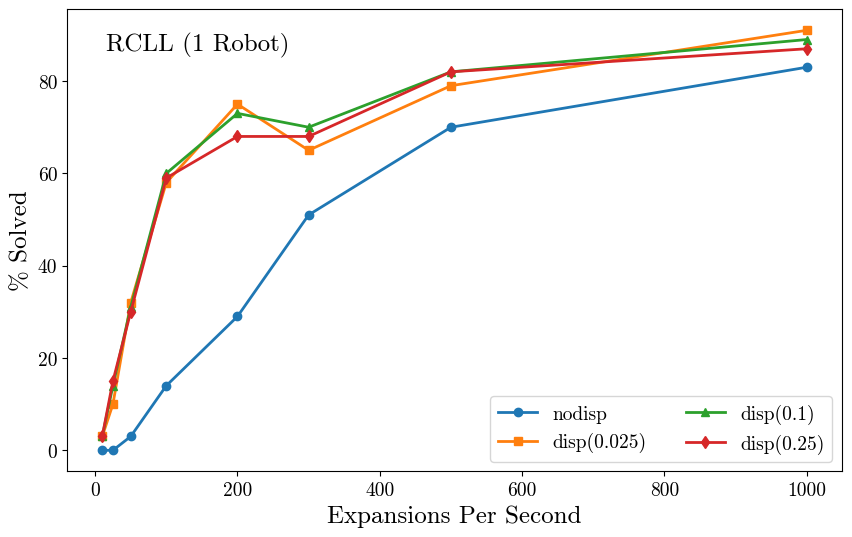
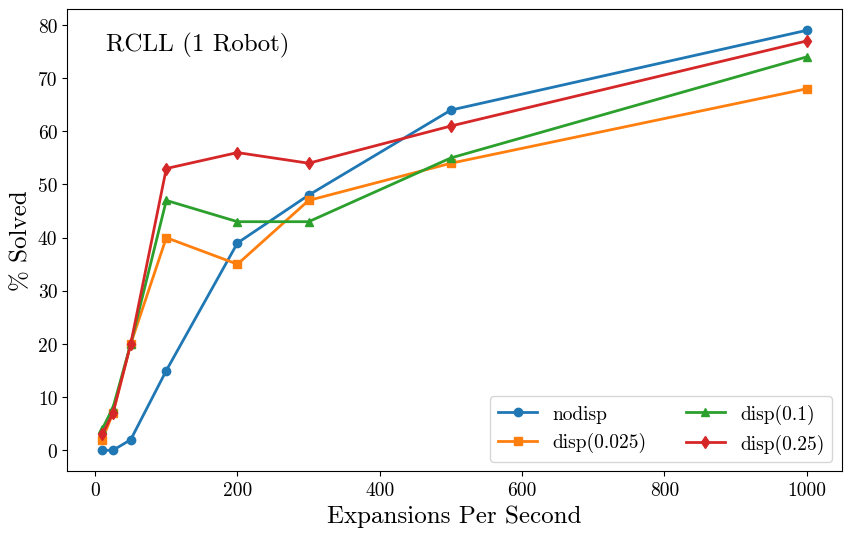
plots wip

diff --git a/_nodes_analysis/plots/SFT 0.125 DFS 10/_plots_general.py b/_nodes_analysis/plots/SFT 0.125 DFS 10/_plots_general.py
@@ -5,12 +5,13 @@ matplotlib.use('Agg')
 import matplotlib.pyplot as plt
 
 # Raw data
+# +
 data1 = {
     'EPS': [10, 25, 50, 100, 200, 300, 500, 1000],
-    'nodisp': [0, 0, 3, 14, 29, 51, 70, 83],
-    'disp(0.025)': [3, 10, 32, 58, 75, 65, 79, 91],
-    'disp(0.1)': [3, 14, 31, 60, 73, 70, 82, 89],
-    'disp(0.25)': [3, 15, 30, 59, 68, 68, 82, 87]
+    'nodisp': [0, 0, 2, 15, 39, 48, 64, 79],  # Updated values
+    'disp(0.025)': [3, 19, 16, 29, 35, 54, 54, 76],  # Updated values
+    'disp(0.1)': [2, 20, 21, 42, 50, 52, 61, 83],  # Updated values
+    'disp(0.25)': [3, 25, 28, 46, 56, 59, 66, 82]  # Updated values
 }
 
 # +
@@ -21,22 +22,23 @@ data2 = {
     'disp(0.1)': [2, 11, 20, 28, 27, 20, 43, 48],  # Updated values
     'disp(0.25)': [2, 8, 16, 28, 22, 32, 33, 44]  # Updated values
 }
-
+# +
 data3 = {
     'EPS': [10, 25, 50, 100, 200, 300, 500, 1000],
-    'nodisp': [0, 0, 0, 0, 0, 5, 8, 16],  # Updated values
-    'disp(0.025)': [0, 5, 8, 13, 25, 28, 27, 31],  # Updated values
-    'disp(0.1)': [0, 4, 8, 8, 18, 23, 30, 33],  # Updated values
-    'disp(0.25)': [1, 3, 7, 11, 20, 25, 22, 34]  # Updated values
+    'nodisp': [0, 0, 0, 0, 3, 6, 3, 13],  # Updated values
+    'disp(0.025)': [1, 3, 8, 10, 18, 23, 14, 25],  # Updated values
+    'disp(0.1)': [0, 2, 6, 13, 16, 18, 17, 22],  # Updated values
+    'disp(0.25)': [0, 2, 6, 11, 10, 15, 15, 19]  # Updated values
 }
-
+# +
 data4 = {
     'EPS': [10, 25, 50, 100, 200, 300, 500, 1000],
-    'nodisp': [100, 100, 100, 100, 100, 100, 100, 100],
-    'disp(0.025)': [100, 100, 100, 100, 100, 100, 100, 100],
-    'disp(0.1)': [100, 100, 100, 100, 100, 100, 100, 100],
-    'disp(0.25)': [100, 100, 100, 100, 100, 100, 100, 100],
+    'nodisp': [100, 100, 100, 100, 100, 100, 100, 100],  # Updated values
+    'disp(0.025)': [100, 100, 100, 100, 100, 100, 100, 100],  # Updated values
+    'disp(0.1)': [100, 100, 100, 100, 100, 100, 100, 100],  # Updated values
+    'disp(0.25)': [100, 100, 100, 100, 100, 100, 100, 100]  # Updated values
 }
+
 # +
 data5 = {
     'EPS': [10, 25, 50, 100, 200, 300, 500, 1000],

diff --git a/_nodes_analysis/plots/SFT 1 DFS 1/_plots_general.py b/_nodes_analysis/plots/SFT 1 DFS 1/_plots_general.py
@@ -5,22 +5,23 @@ matplotlib.use('Agg')
 import matplotlib.pyplot as plt
 
 # Raw data
+# +
 data1 = {
     'EPS': [10, 25, 50, 100, 200, 300, 500, 1000],
-    'nodisp': [0, 0, 3, 14, 29, 51, 70, 83],
-    'disp(0.025)': [3, 10, 32, 58, 75, 65, 79, 91],
-    'disp(0.1)': [3, 14, 31, 60, 73, 70, 82, 89],
-    'disp(0.25)': [3, 15, 30, 59, 68, 68, 82, 87]
+    'nodisp': [0, 0, 2, 15, 39, 48, 64, 79],  # Updated values
+    'disp(0.025)': [2, 7, 20, 40, 35, 47, 54, 68],  # Updated values
+    'disp(0.1)': [4, 8, 20, 47, 43, 43, 55, 74],  # Updated values
+    'disp(0.25)': [3, 7, 20, 53, 56, 54, 61, 77]  # Updated values
 }
-
-
+# +
 data2 = {
     'EPS': [10, 25, 50, 100, 200, 300, 500, 1000],
     'nodisp': [0, 0, 1, 2, 16, 11, 23, 45],  # Updated values
-    'disp(0.025)': [2, 12, 19, 22, 21, 37, 40, 52],  # Updated values
-    'disp(0.1)': [2, 11, 20, 28, 27, 20, 43, 48],  # Updated values
-    'disp(0.25)': [2, 8, 16, 28, 22, 32, 33, 44]  # Updated values
+    'disp(0.025)': [1, 3, 10, 15, 10, 9, 7, 15],  # Updated values
+    'disp(0.1)': [2, 2, 2, 10, 10, 11, 10, 15],  # Updated values
+    'disp(0.25)': [2, 2, 2, 8, 14, 7, 7, 9]  # Updated values
 }
+
 
 data3 = {
     'EPS': [10, 25, 50, 100, 200, 300, 500, 1000],
@@ -29,7 +30,7 @@ data3 = {
     'disp(0.1)': [0, 4, 8, 8, 18, 23, 30, 33],  # Updated values
     'disp(0.25)': [1, 3, 7, 11, 20, 25, 22, 34]  # Updated values
 }
-
+# +
 data4 = {
     'EPS': [10, 25, 50, 100, 200, 300, 500, 1000],
     'nodisp': [100, 100, 100, 100, 100, 100, 100, 100],
